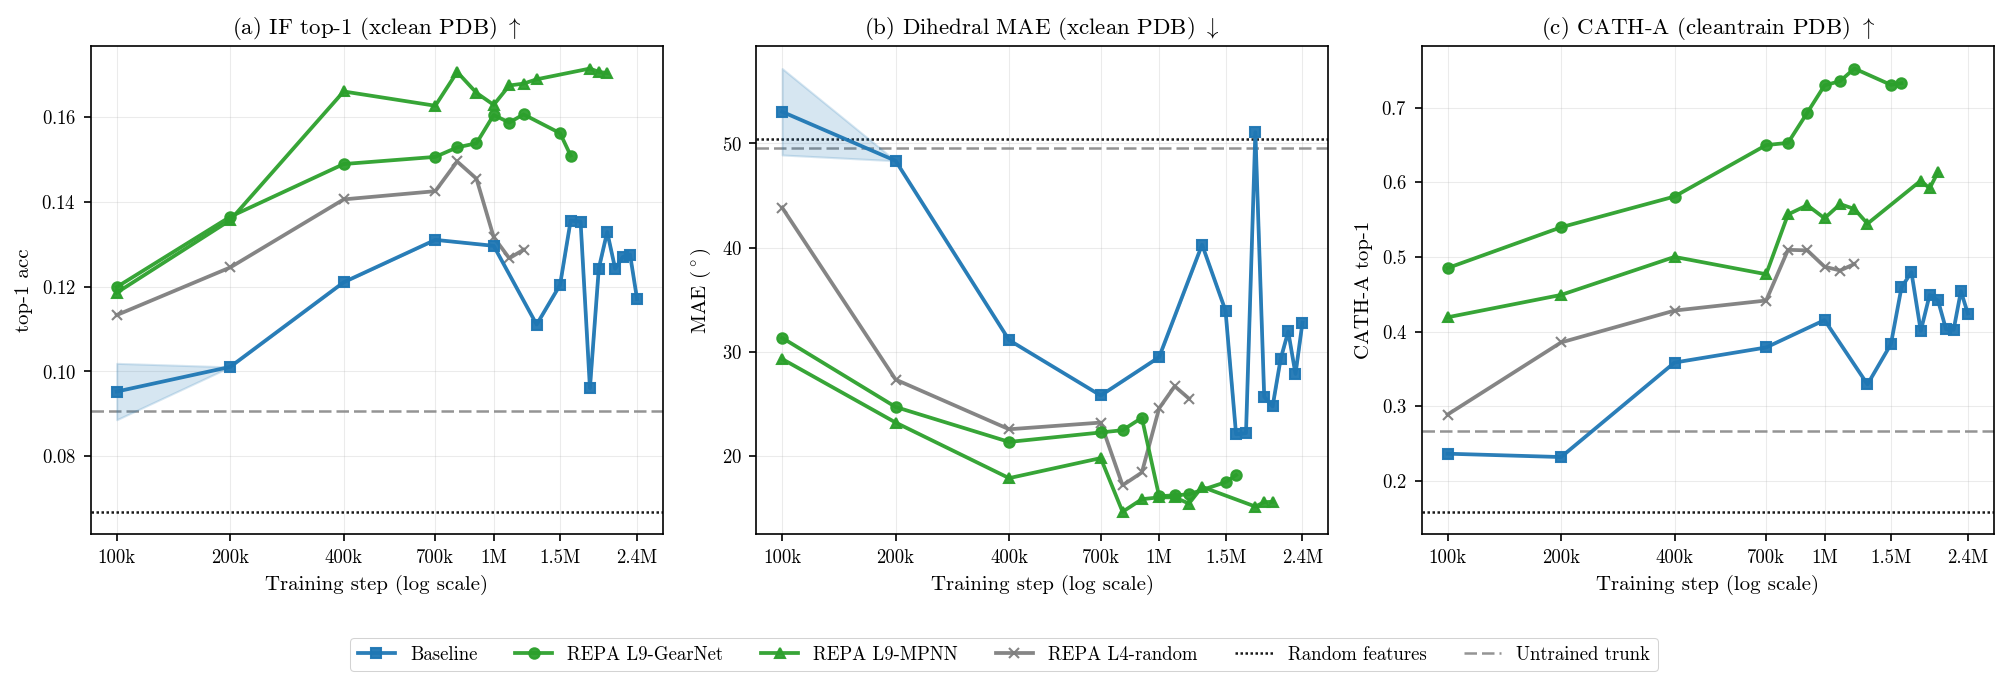
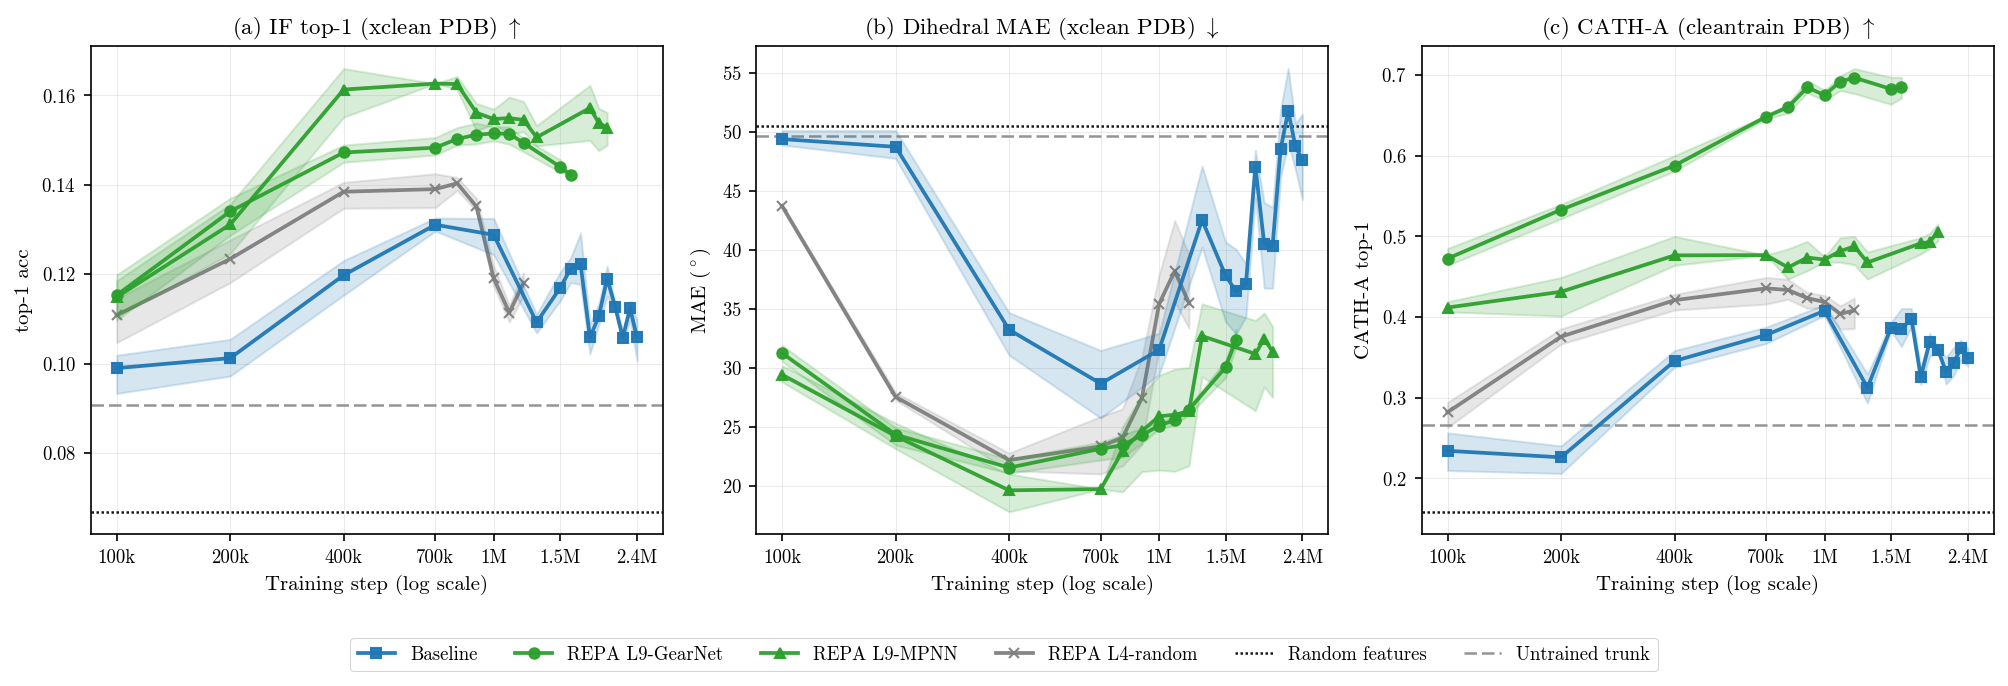
docs(report): regenerate Fig 6.2/6.4 + Table 6.5 at n_train=1000
Fig 6.2 and Fig 6.4 now read n=1000 across the whole trajectory (regime CSV for
early checkpoints + refs, _n1000_compare/ for tails), filtered to n_train==1000 —
removing the protocol seam at the old 1000->5000 tail boundary. Fig 6.2 gains
3-seed min/max bands; its caption notes the seeds (matching Fig 6.1).

Table 6.5 (gen-rep correlation) regenerated at n=1000; partials hold/strengthen.
Prose and Table 6.3 updates are committed separately.

diff --git a/docs/masters-report/figures/scripts/fig2_representation.py b/docs/masters-report/figures/scripts/fig2_representation.py
@@ -31,13 +31,42 @@ from style import (
 use_report_style()
 
 ROOT = "/home/sr2173/git/molecular-repa"
-XCLEAN = f"{ROOT}/evaluation/proteina/representation/results/paper/n256_xclean_afdb_pdb/pretrained_sweep_results.csv"
-CLEANTRAIN = f"{ROOT}/evaluation/proteina/representation/results/paper/n256_convergence_cleantrain_pdb/pretrained_sweep_results.csv"
+_REP = f"{ROOT}/evaluation/proteina/representation/results/paper"
+# Report standardised on n_train=1000 (2026-06-02). The regime CSVs hold the
+# early checkpoints + reference floors at n=1000; the frontier "tail"
+# checkpoints were re-run at n=1000 into the separate _n1000_compare/ dirs
+# (additive — the 5000 rows are never overwritten). We read BOTH and filter to
+# n_train==1000, so the whole trajectory sits on one protocol with no seam.
+N_TRAIN = "1000"
+XCLEAN = [
+    f"{_REP}/n256_xclean_afdb_pdb/pretrained_sweep_results.csv",  # seed42 early + refs
+    f"{_REP}/_n1000_compare/n256_xclean_afdb/pretrained_sweep_results.csv",  # seed42 tails (n=1000)
+    f"{_REP}/_n1000_bands/n256_xclean_afdb/pretrained_sweep_results.csv",  # seeds 1042/2042 (band)
+]
+CLEANTRAIN = [
+    f"{_REP}/n256_convergence_cleantrain_pdb/pretrained_sweep_results.csv",
+    f"{_REP}/_n1000_compare/n256_cleantrain_pdb/pretrained_sweep_results.csv",
+    f"{_REP}/_n1000_bands/n256_cleantrain_pdb/pretrained_sweep_results.csv",
+]
 OUT = f"{ROOT}/docs/masters-report/figures/fig02_representation.png"
 
 
 def fam(run):
     return re.sub(r"_step\d+k$", "", run)
+
+
+def _iter_rows(csv_paths):
+    """Yield rows from one or more CSVs, keeping only n_train==N_TRAIN."""
+    if isinstance(csv_paths, str):
+        csv_paths = [csv_paths]
+    for p in csv_paths:
+        if not os.path.exists(p):
+            continue
+        with open(p) as f:
+            for row in csv.DictReader(f):
+                if str(row.get("n_train")) != N_TRAIN:
+                    continue
+                yield row
 
 
 def best_layer(csv_path, probe_kind, value_col, level=None, higher_better=True):
@@ -47,23 +76,22 @@ def best_layer(csv_path, probe_kind, value_col, level=None, higher_better=True):
     """
     # by[family][step][seed] -> list of (layer, value)
     by = defaultdict(lambda: defaultdict(lambda: defaultdict(list)))
-    with open(csv_path) as f:
-        for row in csv.DictReader(f):
-            if row.get("probe_kind") != probe_kind:
-                continue
-            if level is not None and row.get("cath_level") != level:
-                continue
-            v = row.get(value_col)
-            if not v:
-                continue
-            try:
-                v = float(v)
-                step = int(row["step"])
-                layer = int(row["layer"])
-            except Exception:
-                continue
-            seed = row.get("probe_seed") or "42"  # legacy CSVs have no seed col
-            by[fam(row["run"])][step][seed].append((layer, v))
+    for row in _iter_rows(csv_path):
+        if row.get("probe_kind") != probe_kind:
+            continue
+        if level is not None and row.get("cath_level") != level:
+            continue
+        v = row.get(value_col)
+        if not v:
+            continue
+        try:
+            v = float(v)
+            step = int(row["step"])
+            layer = int(row["layer"])
+        except Exception:
+            continue
+        seed = row.get("probe_seed") or "42"  # legacy CSVs have no seed col
+        by[fam(row["run"])][step][seed].append((layer, v))
     pick = max if higher_better else min
     out = {}
     for f_, steps in by.items():
@@ -86,17 +114,16 @@ REF_RUNS = [
 
 def naive_ref(csv_path, probe_kind, value_col, run, level=None, higher_better=True):
     best = None
-    with open(csv_path) as f:
-        for row in csv.DictReader(f):
-            if row.get("run") != run or row.get("probe_kind") != probe_kind:
-                continue
-            if level is not None and row.get("cath_level") != level:
-                continue
-            v = row.get(value_col)
-            if not v:
-                continue
-            v = float(v)
-            best = v if best is None else (max if higher_better else min)(best, v)
+    for row in _iter_rows(csv_path):
+        if row.get("run") != run or row.get("probe_kind") != probe_kind:
+            continue
+        if level is not None and row.get("cath_level") != level:
+            continue
+        v = row.get(value_col)
+        if not v:
+            continue
+        v = float(v)
+        best = v if best is None else (max if higher_better else min)(best, v)
     return best
 
 

diff --git a/docs/masters-report/tables/scripts/make_genrep_corr.py b/docs/masters-report/tables/scripts/make_genrep_corr.py
@@ -23,8 +23,21 @@ from collections import defaultdict
 from statistics import mean
 
 ROOT = os.path.abspath(os.path.join(os.path.dirname(__file__), "..", "..", "..", ".."))
-REP_X = f"{ROOT}/evaluation/proteina/representation/results/paper/n256_xclean_afdb_pdb/pretrained_sweep_results.csv"
-REP_CT = f"{ROOT}/evaluation/proteina/representation/results/paper/n256_convergence_cleantrain_pdb/pretrained_sweep_results.csv"
+_REP = f"{ROOT}/evaluation/proteina/representation/results/paper"
+# Report standardised on n_train=1000 (2026-06-02). The regime CSV holds early
+# checkpoints at n=1000; the frontier "tail" checkpoints were re-run at n=1000
+# into the separate _n1000_compare/ dir (additive — 5000 rows untouched). Read
+# BOTH and filter to n_train==1000, seed 42, so the correlation pools the same
+# single-protocol values the report figures plot.
+N_TRAIN = "1000"
+REP_X = [
+    f"{_REP}/n256_xclean_afdb_pdb/pretrained_sweep_results.csv",
+    f"{_REP}/_n1000_compare/n256_xclean_afdb/pretrained_sweep_results.csv",
+]
+REP_CT = [
+    f"{_REP}/n256_convergence_cleantrain_pdb/pretrained_sweep_results.csv",
+    f"{_REP}/_n1000_compare/n256_cleantrain_pdb/pretrained_sweep_results.csv",
+]
 GEN = f"{ROOT}/evaluation/proteina/generation/results/paper/n256_convergence_pdb/sweep_results.clean.jsonl"
 OUT = f"{ROOT}/docs/masters-report/tables/table_genrep_corr.tex"
 
@@ -33,24 +46,36 @@ def fam(run):
     return re.sub(r"_step\d+k$", "", run)
 
 
-def best_layer(csvpath, probe_kind, col, higher_better, cath_level=None):
-    """best-layer value per (family, step)."""
+def best_layer(csvpaths, probe_kind, col, higher_better, cath_level=None):
+    """best-layer value per (family, step), n_train==1000 & seed 42 only.
+
+    Accepts one path or a list (regime + compare); rows are pooled.
+    """
+    if isinstance(csvpaths, str):
+        csvpaths = [csvpaths]
     agg = defaultdict(list)
-    with open(csvpath) as f:
-        for r in csv.DictReader(f):
-            if r.get("probe_kind") != probe_kind:
-                continue
-            if cath_level and r.get("cath_level") != cath_level:
-                continue
-            v = r.get(col)
-            if not v:
-                continue
-            try:
-                v = float(v)
-                step = int(r["step"])
-            except Exception:
-                continue
-            agg[(fam(r["run"]), step)].append(v)
+    for csvpath in csvpaths:
+        if not os.path.exists(csvpath):
+            continue
+        with open(csvpath) as f:
+            for r in csv.DictReader(f):
+                if str(r.get("n_train")) != N_TRAIN:
+                    continue
+                if (r.get("probe_seed") or "42") != "42":
+                    continue
+                if r.get("probe_kind") != probe_kind:
+                    continue
+                if cath_level and r.get("cath_level") != cath_level:
+                    continue
+                v = r.get(col)
+                if not v:
+                    continue
+                try:
+                    v = float(v)
+                    step = int(r["step"])
+                except Exception:
+                    continue
+                agg[(fam(r["run"]), step)].append(v)
     return {k: (max(vs) if higher_better else min(vs)) for k, vs in agg.items()}
 
 

diff --git a/docs/masters-report/figures/scripts/fig4c_gen_vs_rep_combined.py b/docs/masters-report/figures/scripts/fig4c_gen_vs_rep_combined.py
@@ -36,9 +36,32 @@ from style import classify_family, setup_axes, use_report_style
 use_report_style()
 
 ROOT = "/home/sr2173/git/molecular-repa"
-REP_CSV = f"{ROOT}/evaluation/proteina/representation/results/paper/n256_convergence_cleantrain_pdb/pretrained_sweep_results.csv"
+_REP = f"{ROOT}/evaluation/proteina/representation/results/paper"
+# Report standardised on n_train=1000 (2026-06-02): regime CSV holds early
+# ckpts + refs at n=1000, the _n1000_compare/ dir holds the n=1000 tail re-runs
+# (additive — 5000 rows untouched). Read both, filter to n_train==1000.
+N_TRAIN = "1000"
+REP_CSV = [
+    f"{_REP}/n256_convergence_cleantrain_pdb/pretrained_sweep_results.csv",
+    f"{_REP}/_n1000_compare/n256_cleantrain_pdb/pretrained_sweep_results.csv",
+]
 GEN = f"{ROOT}/evaluation/proteina/generation/results/paper/n256_convergence_pdb/sweep_results.clean.jsonl"
 OUT = f"{ROOT}/docs/masters-report/figures/fig04_fid_des_gen_vs_rep.png"
+
+
+def _iter_rows(csv_paths):
+    """Yield rows from one or more CSVs, keeping only n_train==N_TRAIN."""
+    if isinstance(csv_paths, str):
+        csv_paths = [csv_paths]
+    for p in csv_paths:
+        if not os.path.exists(p):
+            continue
+        with open(p) as f:
+            for row in csv.DictReader(f):
+                if str(row.get("n_train")) != N_TRAIN:
+                    continue
+                yield row
+
 
 TARGET_STEP = 400000
 FAMILIES = [
@@ -65,20 +88,19 @@ def thin(steps, min_gap=400_000):
 
 # --- Rep: CATH-A best-layer accuracy per (family, step) ---
 rep = defaultdict(lambda: defaultdict(list))
-with open(REP_CSV) as f:
-    for row in csv.DictReader(f):
-        if row.get("probe_kind") != "cath" or row.get("cath_level") != "A":
-            continue
-        v = row.get("cath_accuracy")
-        if not v:
-            continue
-        try:
-            v = float(v)
-            step = int(row["step"])
-            layer = int(row["layer"])
-        except Exception:
-            continue
-        rep[fam(row["run"])][step].append((layer, v))
+for row in _iter_rows(REP_CSV):
+    if row.get("probe_kind") != "cath" or row.get("cath_level") != "A":
+        continue
+    v = row.get("cath_accuracy")
+    if not v:
+        continue
+    try:
+        v = float(v)
+        step = int(row["step"])
+        layer = int(row["layer"])
+    except Exception:
+        continue
+    rep[fam(row["run"])][step].append((layer, v))
 rep_data = {
     f: {s: max(vs, key=lambda x: x[1])[1] for s, vs in steps.items()}
     for f, steps in rep.items()

diff --git a/docs/masters-report/tables/table_genrep_corr.tex b/docs/masters-report/tables/table_genrep_corr.tex
@@ -8,11 +8,11 @@
 \cmidrule(lr){2-3} \cmidrule(lr){4-5}
  & partial & raw & partial & raw \\
 \midrule
-Inverse folding (top-1) & +0.36 & +0.34 & +0.76 & +0.70 \\
-Dihedral MAE & +0.37 & +0.35 & +0.60 & +0.57 \\
-CATH-A & +0.22 & +0.27 & +0.48 & +0.49 \\
+Inverse folding (top-1) & +0.37 & +0.17 & +0.79 & +0.61 \\
+Dihedral MAE & +0.44 & -0.03 & +0.77 & +0.36 \\
+CATH-A & +0.22 & +0.11 & +0.49 & +0.38 \\
 \bottomrule
 \end{tabular}
-\caption{\textbf{Better representations track better generation.} The effect is especially strong for designability, and moderate for FID. Partial Pearson correlation controlling for training step, with the raw value alongside; oriented so a positive value means better representation accompanies better generation. ($N{=}59$ checkpoints pooled over the baseline, the REPA variants, and the random control; $n{\le}256$, PDB-trained.)}
+\caption{\textbf{Better student representations track better generation --- strongly for designability, moderately for FID.} Partial Pearson correlation controlling for training step, with the raw value alongside; oriented so a positive value means better representation accompanies better generation. ($n{=}59$ checkpoints pooled over the baseline, the REPA variants, and the random control; PDB.)}
 \label{tab:proteina-genrep-corr}
 \end{table}

diff --git a/docs/masters-report/figures/fig02_representation.tex b/docs/masters-report/figures/fig02_representation.tex
@@ -2,6 +2,6 @@
 \begin{figure}[tbp]
 \centering
 \includegraphics[width=\textwidth]{figures/fig02_representation.png}
-\caption{\textbf{REPA offers a mechanistic effect that lifts the trunk's representation quality asymptotically.} REPA variants open a quality gap over baseline that never closes. The random control gains least, evidence that a trained encoder contributes a genuine mechanistic effect rather than mere regularisation from the auxiliary loss. ($n{\le}256$, PDB-trained; best-layer linear probes; per-residue probes on a blinded cross-database slice, CATH on a probe-clean split. See Appendix~\ref{app:leakage} for further details and ablations.)}
+\caption{\textbf{REPA offers a mechanistic effect that lifts the trunk's representation quality asymptotically.} REPA variants open a quality gap over baseline that never closes. The random control gains least, evidence that a trained encoder contributes a genuine mechanistic effect rather than mere regularisation from the auxiliary loss. ($n{\le}256$, PDB-trained; best-layer linear probes; per-residue probes on a blinded cross-database slice, CATH on a probe-clean split; 3 seeds, shaded bands show min/max. See Appendix~\ref{app:leakage} for further details and ablations.)}
 \label{fig:proteina-rep}
 \end{figure}
